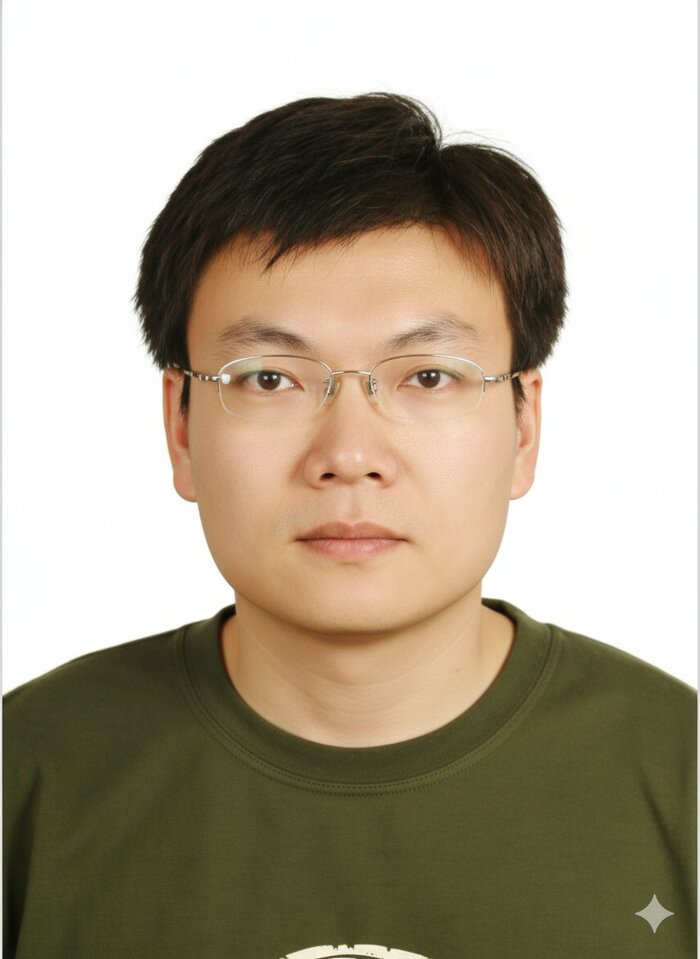
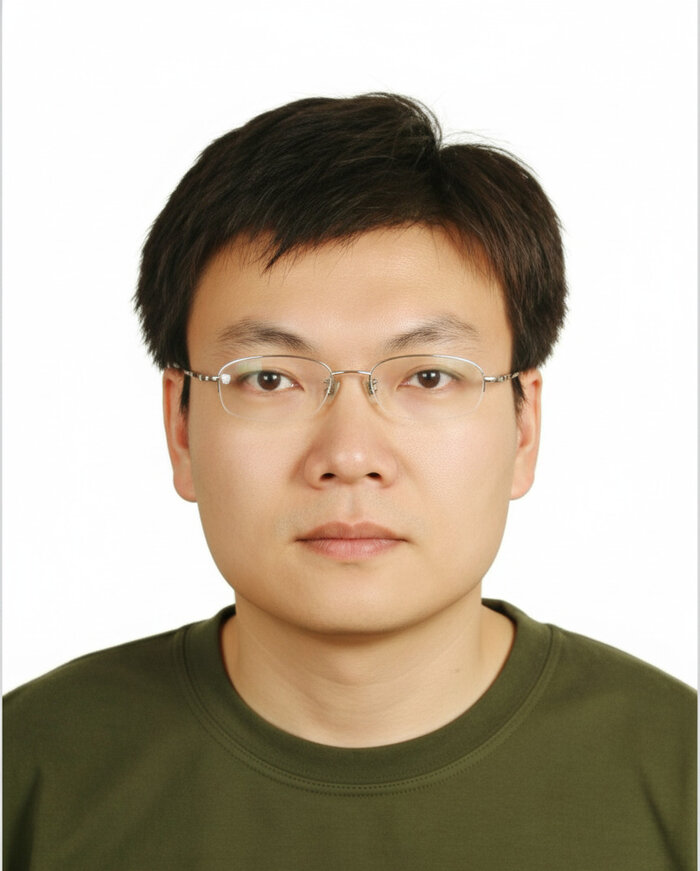
Fix Guosheng principal photo and news hero crop
Crop Gemini watermark off the principal portrait and shrink its
display size; reposition the News page playground hero so the
play structure isn't cut off.

diff --git a/schools/guosheng/news/index.html b/schools/guosheng/news/index.html
@@ -17,7 +17,7 @@
 <body>
 <div class="tb"><div class="tb__inner"><a class="tb__brand" href="/schools/guosheng/"><img class="tb__logo" src="/schools/guosheng/logo.png" alt="國聖國小校徽 Guosheng Elementary crest"><div class="tb__name">Guosheng Elementary<small>國聖國民小學</small></div></a><nav class="tb__nav"><a href="/schools/guosheng/">Home</a><a href="/schools/guosheng/principal/">Principal</a><a href="/schools/guosheng/lessons/">Lessons</a><a href="/schools/guosheng/news/" class="is-active">News</a></nav></div></div>
 
-<header class="chero chero--photo" style="--photo:url('/schools/guosheng/photos/campus-playground.jpg');background-position:bottom,center 30%;"><div class="chero__fx"></div><div class="chero__inner"><span class="eyebrow">News · 新聞</span><h1>News</h1><div class="h1-zh">國聖國小新聞與校園生活</div></div><div class="scrollcue" aria-hidden="true">⌄</div></header>
+<header class="chero chero--photo" style="--photo:url('/schools/guosheng/photos/campus-playground.jpg');background-position:bottom,center 80%;"><div class="chero__fx"></div><div class="chero__inner"><span class="eyebrow">News · 新聞</span><h1>News</h1><div class="h1-zh">國聖國小新聞與校園生活</div></div><div class="scrollcue" aria-hidden="true">⌄</div></header>
 
 <section><div class="wrap"><div class="sec__no">I.</div><h2 class="sec__title">Campus Stories</h2><div class="sec__title-zh">校園生活紀事</div><div class="sec__rule"></div><p class="lead">Moments from around the Guosheng campus, told in full.</p><p class="lead-zh">國聖校園生活點滴，圖文並茂完整呈現。</p>
 

diff --git a/schools/guosheng/style.css b/schools/guosheng/style.css
@@ -323,7 +323,7 @@ section:last-of-type{border-bottom:none;}
 .g-photo .g-cap{position:absolute;bottom:0;left:0;right:0;background:linear-gradient(0deg,rgba(14,32,64,.82) 0%,transparent 100%);color:#fff;padding:28px 14px 12px;font-family:'PingFang TC',sans-serif;font-size:17px;font-weight:500;letter-spacing:.02em;}
 
 /* ===== Principal portrait ===== */
-.pportrait{margin:6px auto 2px;max-width:420px;}
+.pportrait{margin:6px auto 2px;max-width:320px;}
 .pportrait img{width:100%;aspect-ratio:3/4;object-fit:cover;object-position:50% 35%;border-radius:20px;box-shadow:var(--shadow);display:block;border:1px solid var(--line);}
 .pportrait figcaption{margin-top:14px;font-family:'Playfair Display','PingFang TC',serif;font-size:19px;color:var(--indigo-deep);font-weight:700;text-align:center;}
 .pportrait figcaption small{display:block;font-family:'PingFang TC',sans-serif;font-size:16px;color:var(--ink-soft);font-weight:500;margin-top:3px;}
